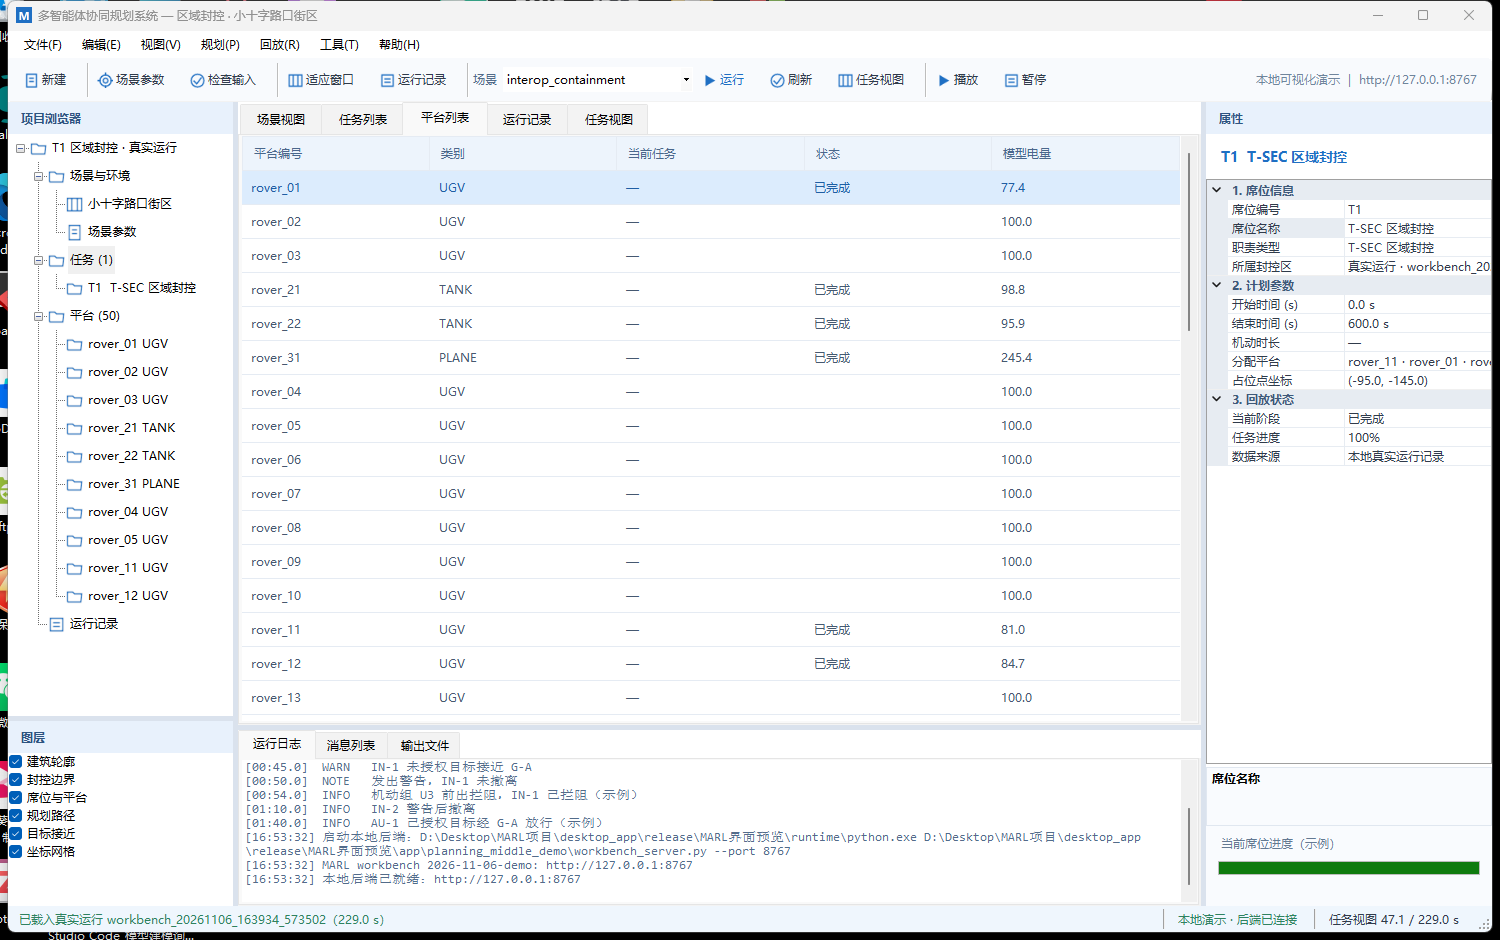
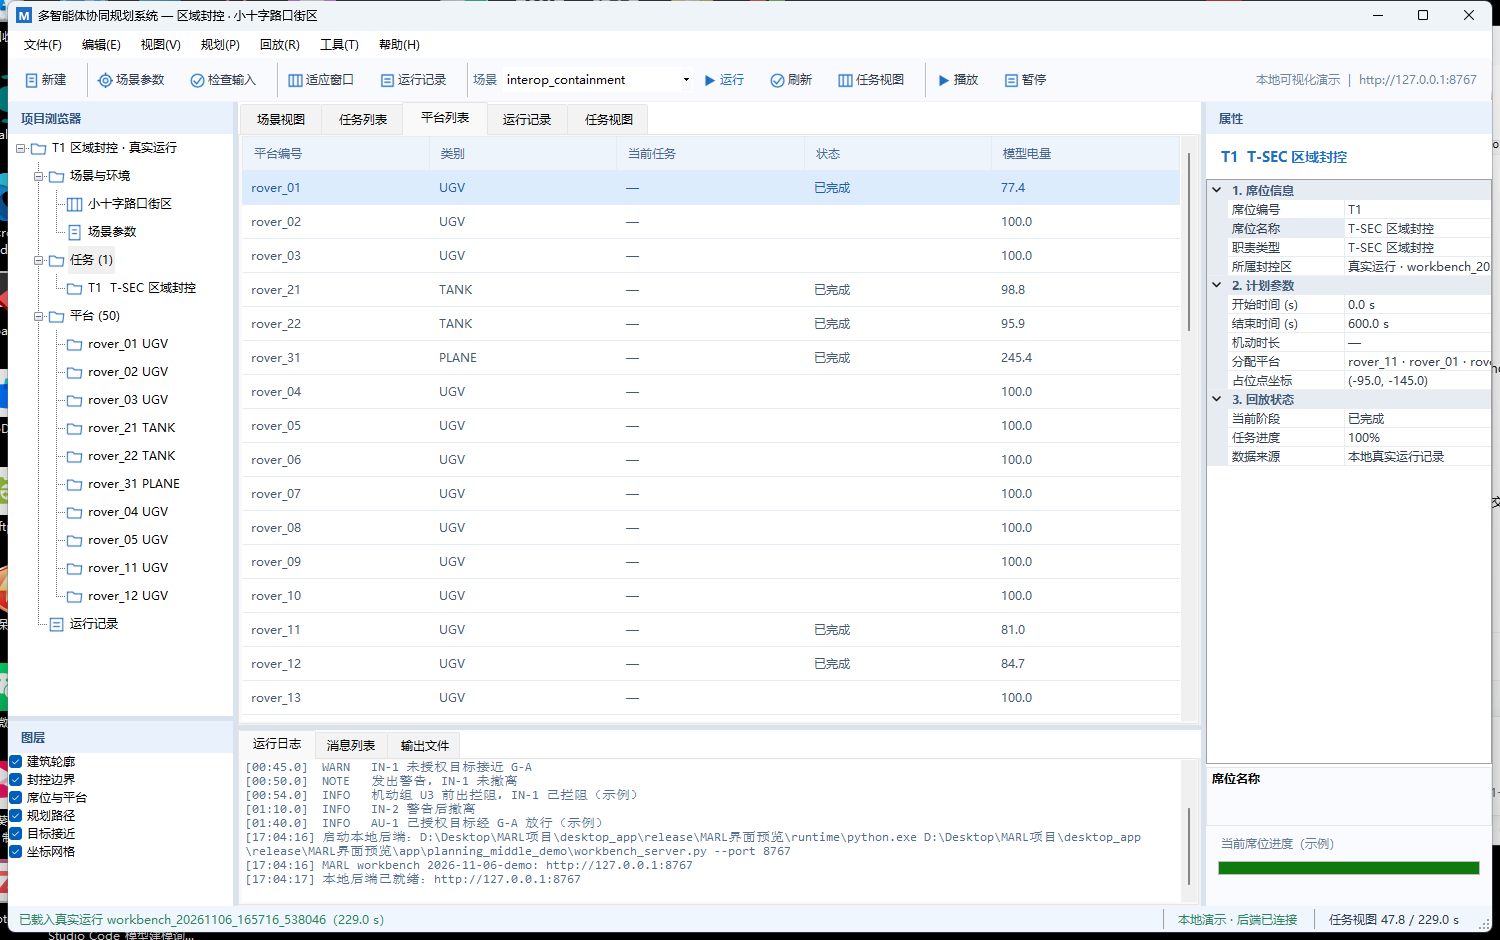
test(desktop): verify UI-driven run and finalize portable package

diff --git a/planning_middle_demo/workbench/desktop_bridge.js b/planning_middle_demo/workbench/desktop_bridge.js
@@ -39,9 +39,25 @@
     element.click();
     return true;
   }
+  function refresh() {
+    return click('#refresh');
+  }
   function selectRun(id) {
     var element = q('#run-select');
     if (!element) return false;
+    var found = false;
+    for (var i = 0; i < element.options.length; i++) {
+      if (element.options[i].value === id) { found = true; break; }
+    }
+    if (!found) {
+      // A run created after the page loaded is not in the select yet.
+      click('#refresh');
+      window.setTimeout(function () {
+        var later = q('#run-select');
+        if (later) { later.value = id; fire(later, 'change'); }
+      }, 1000);
+      return true;
+    }
     element.value = id;
     return fire(element, 'change');
   }
@@ -99,13 +115,27 @@
     if (containmentFit) containmentFit.click();
     return true;
   }
-  function startReplay(taskId, seconds) {
+  function startReplay(taskId, seconds, runId) {
     var tries = 0;
     var timer = window.setInterval(function () {
       var duration = Number(((q('#duration') || {}).textContent || '0').replace(/[^0-9.\-]/g, '')) || 0;
-      if (duration > 0) {
+      var currentRun = (q('#run-select') || {}).value || '';
+      if (duration > 0 && (!runId || currentRun === runId)) {
         window.clearInterval(timer);
-        if (taskId) selectTask(taskId);
+        var taskTries = 0;
+        var chooseTask = function () {
+          if (!taskId) return;
+          var select = q('#task-select');
+          var found = false;
+          if (select) {
+            for (var i = 0; i < select.options.length; i++) {
+              if (select.options[i].value === taskId) { found = true; break; }
+            }
+          }
+          if (found) { selectTask(taskId); return; }
+          if (++taskTries < 12) window.setTimeout(chooseTask, 300);
+        };
+        chooseTask();
         setTime(seconds);
         play();
         fit();
@@ -147,6 +177,7 @@
     setTime: setTime,
     setLayer: setLayer,
     fit: fit,
+    refresh: refresh,
     startReplay: startReplay
   };
 

diff --git a/desktop_app/src/DesktopIntegration.cs b/desktop_app/src/DesktopIntegration.cs
@@ -281,7 +281,8 @@ namespace MarlDesktopPreview
                         pendingRunId = "";
                         Bridge("selectRun(" + desktopJson.Serialize(id) + ")");
                         Bridge("startReplay(" + desktopJson.Serialize(pendingTaskId) + ", "
-                               + pendingStart.ToString("0.###", CultureInfo.InvariantCulture) + ")");
+                               + pendingStart.ToString("0.###", CultureInfo.InvariantCulture) + ", "
+                               + desktopJson.Serialize(id) + ")");
                     }
                     else if (!string.IsNullOrEmpty(desktopRunId))
                     {
@@ -455,7 +456,8 @@ namespace MarlDesktopPreview
             {
                 string taskId = desktopRun.Tasks[0].Id;
                 Bridge("startReplay(" + desktopJson.Serialize(taskId) + ", "
-                       + startAt.ToString("0.###", CultureInfo.InvariantCulture) + ")");
+                       + startAt.ToString("0.###", CultureInfo.InvariantCulture) + ", "
+                       + desktopJson.Serialize(run.Id) + ")");
             }
             OpenTaskView();
             Bridge("fit()");
@@ -615,7 +617,8 @@ namespace MarlDesktopPreview
                     {
                         if (desktopRunButton != null) desktopRunButton.Enabled = true;
                         SetTaskViewStatus("任务视图：运行失败。" + ex.Message);
-                        LogDesktop("运行失败：" + ex.Message);
+                        LogDesktop("运行失败：" + ex.ToString());
+                        try { File.WriteAllText(Path.Combine(AppDomain.CurrentDomain.BaseDirectory, "run-error.txt"), ex.ToString()); } catch (Exception) { }
                     });
                 }
             });
@@ -716,6 +719,11 @@ namespace MarlDesktopPreview
                 if (log.TextLength > 60000) log.Text = log.Text.Substring(log.TextLength - 30000);
                 log.AppendText("[" + DateTime.Now.ToString("HH:mm:ss") + "] " + text + "\r\n");
             });
+        }
+
+        public void StartDemoRunForVerification()
+        {
+            RunSelectedScenario();
         }
 
         public void CaptureLiveVerification(string directory)

diff --git a/desktop_app/src/DesktopApi.cs b/desktop_app/src/DesktopApi.cs
@@ -94,6 +94,7 @@ namespace MarlDesktopPreview
 
         private string Post(string path, string body)
         {
+            ServicePointManager.Expect100Continue = false;
             using (WebClient client = new WebClient())
             {
                 client.Encoding = Encoding.UTF8;
@@ -329,8 +330,18 @@ namespace MarlDesktopPreview
                 }
                 process = new Process();
                 process.StartInfo = info;
-                process.OutputDataReceived += delegate(object s, DataReceivedEventArgs e) { if (!string.IsNullOrEmpty(e.Data)) log(e.Data); };
-                process.ErrorDataReceived += delegate(object s, DataReceivedEventArgs e) { if (!string.IsNullOrEmpty(e.Data)) log("[stderr] " + e.Data); };
+                process.OutputDataReceived += delegate(object s, DataReceivedEventArgs e)
+                {
+                    if (string.IsNullOrEmpty(e.Data)) return;
+                    log(e.Data);
+                    AppendBackendLog(e.Data);
+                };
+                process.ErrorDataReceived += delegate(object s, DataReceivedEventArgs e)
+                {
+                    if (string.IsNullOrEmpty(e.Data)) return;
+                    log("[stderr] " + e.Data);
+                    AppendBackendLog("[stderr] " + e.Data);
+                };
                 if (!process.Start()) throw new InvalidOperationException("本地后端进程启动失败。");
                 process.BeginOutputReadLine();
                 process.BeginErrorReadLine();
@@ -379,6 +390,16 @@ namespace MarlDesktopPreview
                 catch (Exception) { }
             }
             return null;
+        }
+
+        private static void AppendBackendLog(string text)
+        {
+            try
+            {
+                File.AppendAllText(Path.Combine(AppDomain.CurrentDomain.BaseDirectory, "backend.log"),
+                    DateTime.Now.ToString("HH:mm:ss.fff") + " " + text + "\r\n", Encoding.UTF8);
+            }
+            catch (Exception) { }
         }
 
         private static int FindFreePort()

diff --git a/desktop_app/src/DesktopPreview.cs b/desktop_app/src/DesktopPreview.cs
@@ -812,6 +812,35 @@ namespace MarlDesktopPreview
                 }
                 catch (Exception ex) { Directory.CreateDirectory(args[1]); File.WriteAllText(Path.Combine(args[1], "verification-error.txt"), ex.ToString()); return 1; }
             }
+            if (args.Length == 2 && args[0] == "--run-verify")
+            {
+                try
+                {
+                    using (MainWindow form = new MainWindow())
+                    {
+                        form.StartPosition = FormStartPosition.Manual;
+                        form.Location = new Point(30, 30);
+                        form.Show();
+                        int ticks = 0;
+                        Timer timer = new Timer { Interval = 1000 };
+                        liveVerifyTimer = timer;
+                        timer.Tick += delegate
+                        {
+                            ticks++;
+                            if (ticks == 8) form.StartDemoRunForVerification();
+                            if (ticks < 50) return;
+                            timer.Stop();
+                            try { form.CaptureLiveVerification(args[1]); }
+                            catch (Exception ex) { Directory.CreateDirectory(args[1]); File.WriteAllText(Path.Combine(args[1], "run-verification-error.txt"), ex.ToString()); }
+                            form.Close();
+                        };
+                        timer.Start();
+                        Application.Run(form);
+                    }
+                    return 0;
+                }
+                catch (Exception ex) { Directory.CreateDirectory(args[1]); File.WriteAllText(Path.Combine(args[1], "run-verification-error.txt"), ex.ToString()); return 1; }
+            }
             if (args.Length == 2 && args[0] == "--live-verify")
             {
                 try

diff --git a/docs/交付/交付清单.md b/docs/交付/交付清单.md
@@ -27,7 +27,7 @@
 - 源码 commit：待填（演示分支 `work/20261106-demo`）。
 - Git 标签：`demo-v0.5.0` 待打。
 - 演示发布包：`desktop_app/release/MARL界面预览_v0.5.0.zip`
-- 发布包大小：14,347,838 字节
[1 lines of base64/hex data omitted]
+- 发布包大小：14,376,056 字节
[1 lines of base64/hex data omitted]
 - 全量测试：263 项通过，2 项跳过（2026-11-06）。
 - 文档版本：v0.5（骨架），正式交付前升版。

diff --git a/outputs/演示验证_20261106/README.md b/outputs/演示验证_20261106/README.md
@@ -32,8 +32,8 @@
 
 ```text
 desktop_app\release\MARL界面预览_v0.5.0.zip
-大小：14,347,838 字节（约 13.7 MB）
-SHA-256：E632BF1BFCC9811A37232FE5FB3D5A01D92253D50DA287812586F976E3A5A538
+大小：14,376,056 字节（约 13.7 MB）
+SHA-256：78904BDD03D32ABD1692B267A4C166124728D94D17AC71209BF4FB83E3BD64D0
 ```
 
 解压后目录约 45 MB。启动方式：双击 `MARL界面预览.exe`。
